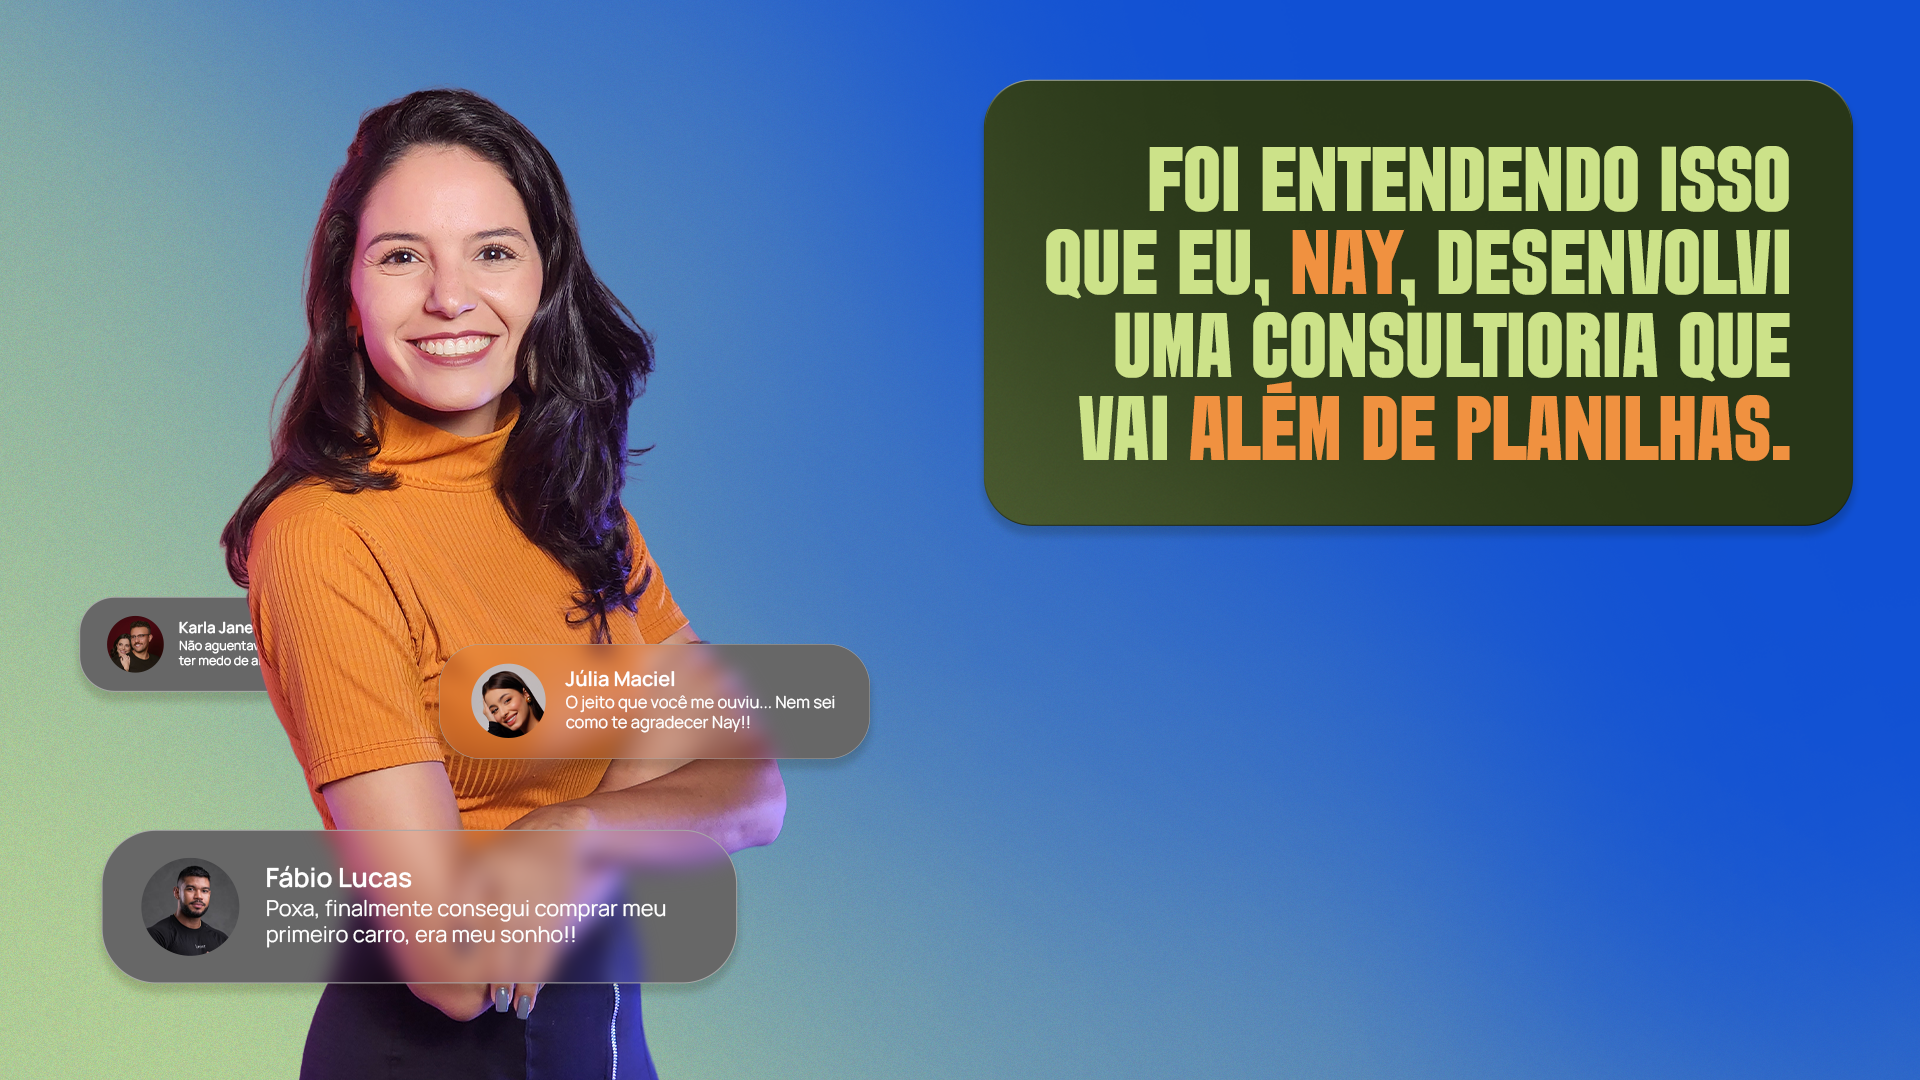
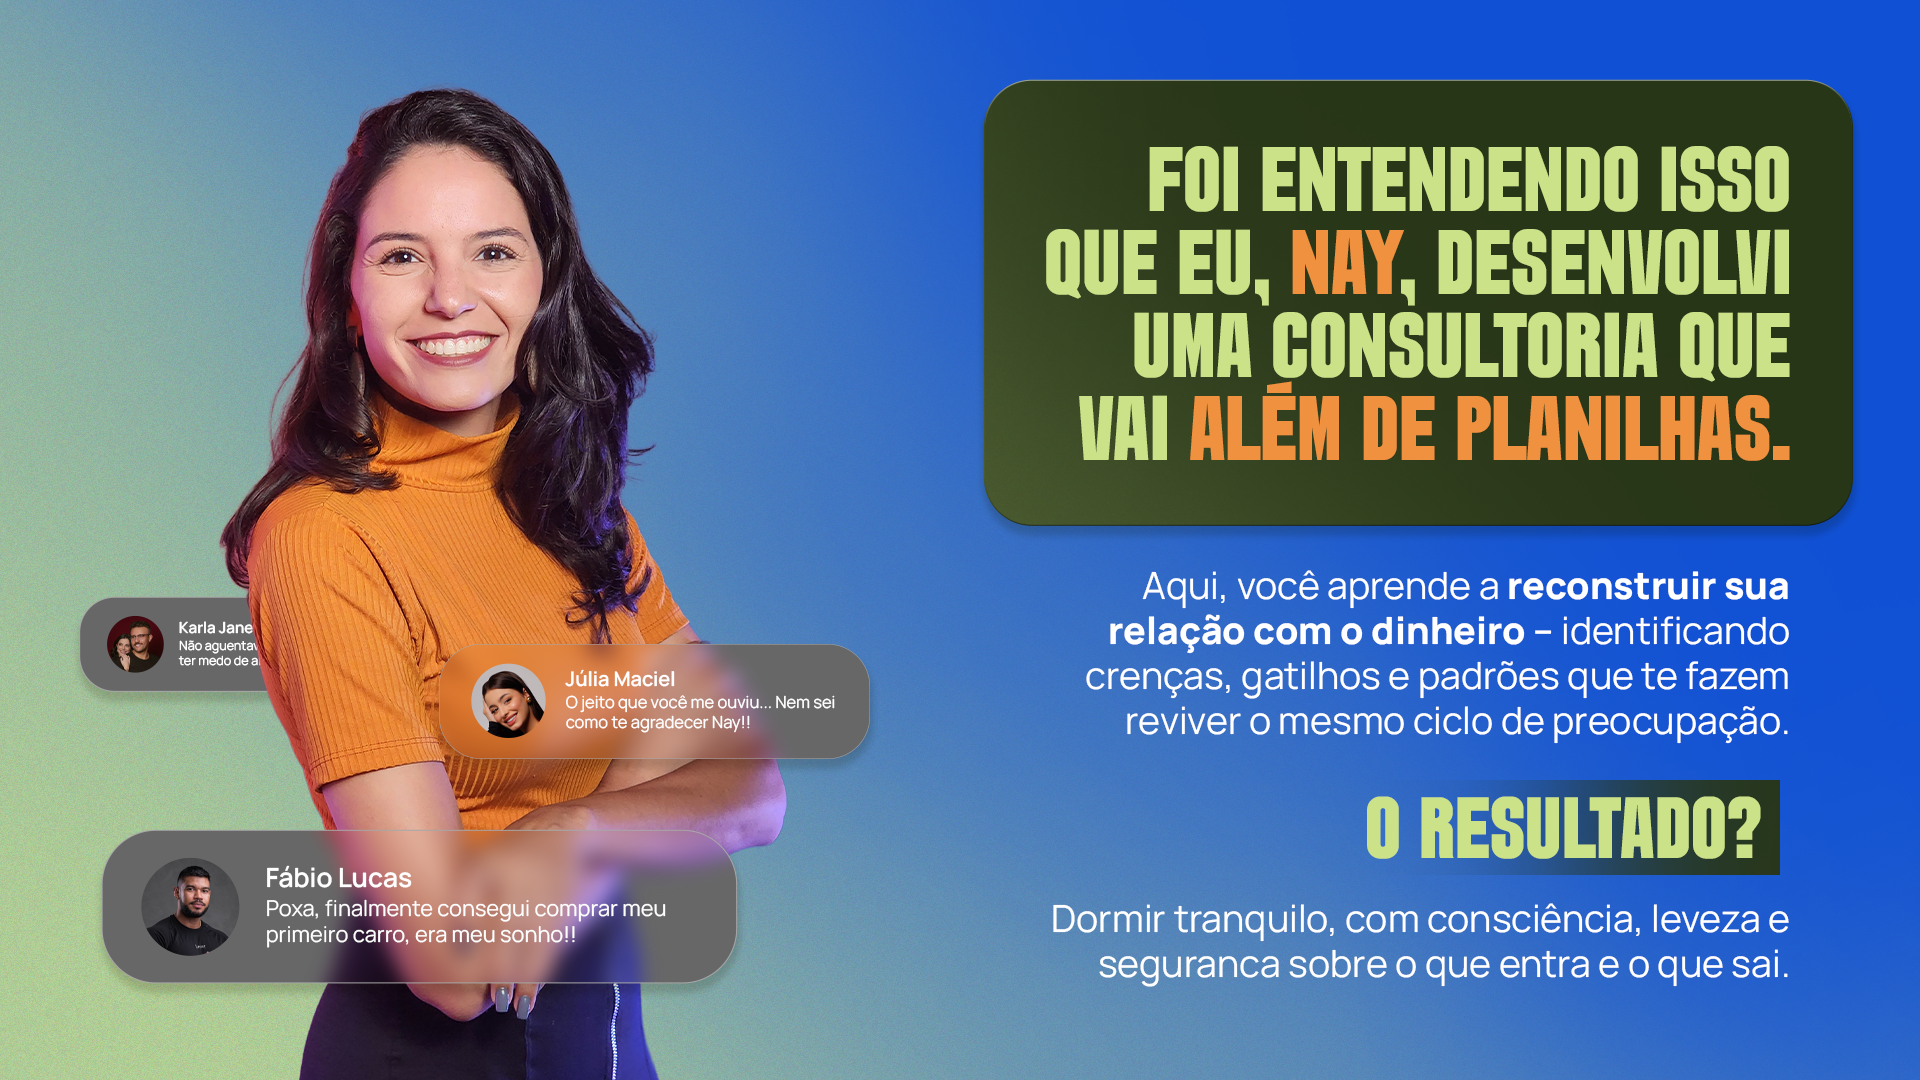
preview

Changed region(s): [[0.5312, 0.5194, 0.9375, 0.9167], [0.5625, 0.275, 0.8125, 0.3667]]

diff --git a/index.html b/index.html
@@ -1,34 +1,50 @@
 <!DOCTYPE html>
 <html lang="pt-BR">
 <head>
-    <meta charset="UTF-8">
-    <meta name="viewport" content="width=device-width, initial-scale=1.0">
-    <title>Título da Sua Landing Page Aqui</title>
-    
-    <meta name="description" content="Descreva sua landing page em até 160 caracteres.">
-    <meta name="keywords" content="palavra-chave1, palavra-chave2, palavra-chave3">
-    <meta name="author" content="Seu Nome ou Nome da Empresa">
-    <meta name="robots" content="index, follow">
+  <meta charset="UTF-8" />
+  <meta http-equiv="X-UA-Compatible" content="IE=edge" />
+  <meta name="viewport" content="width=device-width, initial-scale=1.0" />
 
-    <meta property="og:title" content="O Mesmo Título da Sua Landing Page">
-    <meta property="og:description" content="A Mesma Descrição da Sua Landing Page">
-    <meta property="og:image" content="https://seusite.com/assets/img/nome-da-imagem-social.jpg">
-    <meta property="og:url" content="https://seusite.com/">
-    <meta property="og:type" content="website">
+  <title>Consultoria Financeira Emocional com Nay | Viva em Paz com o Dinheiro</title>
 
-    <link rel="icon" href="assets/img/favicons/favicon.ico" type="image/x-icon">
-    <link rel="shortcut icon" href="assets/img/favicons/favicon.ico" type="image/x-icon">
-    <link rel="apple-touch-icon" sizes="180x180" href="assets/img/favicons/apple-touch-icon.png">
-    <link rel="icon" type="image/png" sizes="32x32" href="assets/img/favicons/favicon-32x32.png">
-    <link rel="icon" type="image/png" sizes="16x16" href="assets/img/favicons/favicon-16x16.png">
-    
-    <link rel="preconnect" href="https://fonts.googleapis.com">
-    <link rel="preconnect" href="https://fonts.gstatic.com" crossorigin>
-    <link href="https://fonts.googleapis.com/css2?family=Manrope:wght@600&display=swap" rel="stylesheet">
-    
-    <link rel="stylesheet" href="assets/style.css">
-    <script src="assets/script.js" defer></script>
+  <link rel="canonical" href="https://seudominio.com/" />
+  <meta name="description" content="Transforme sua relação com o dinheiro. Consultoria financeira individual com Nay — equilíbrio emocional e clareza para organizar suas finanças sem culpa." />
+  <meta name="keywords" content="consultoria financeira, educação financeira, terapia financeira, consultoria emocional, controle financeiro, organização financeira, finanças pessoais, Nay, Ipatinga, paz com o dinheiro" />
+  <meta name="author" content="Nay - Educadora Financeira" />
+  <meta name="robots" content="index, follow" />
+  <meta name="theme-color" content="#111111" />
+
+  <!-- Open Graph -->
+  <meta property="og:title" content="Consultoria Financeira Emocional com Nay | Viva em Paz com o Dinheiro" />
+  <meta property="og:description" content="Aprenda a organizar suas finanças com leveza e propósito. Consultoria financeira que une emoção e razão para curar sua relação com o dinheiro." />
+  <meta property="og:image" content="https://seudominio.com/assets/img/og-image-nay.jpg" />
+  <meta property="og:url" content="https://seudominio.com/" />
+  <meta property="og:type" content="website" />
+  <meta property="og:locale" content="pt_BR" />
+
+  <!-- Twitter -->
+  <meta name="twitter:card" content="summary_large_image" />
+  <meta name="twitter:title" content="Consultoria Financeira Emocional com Nay" />
+  <meta name="twitter:description" content="Durma tranquilo com suas finanças. Transforme sua relação com o dinheiro." />
+  <meta name="twitter:image" content="https://seudominio.com/assets/img/og-image-nay.jpg" />
+
+  <!-- Favicons -->
+  <link rel="icon" href="assets/img/favicons/favicon.ico" type="image/x-icon" />
+  <link rel="shortcut icon" href="assets/img/favicons/favicon.ico" type="image/x-icon" />
+  <link rel="apple-touch-icon" sizes="180x180" href="assets/img/favicons/apple-touch-icon.png" />
+  <link rel="icon" type="image/png" sizes="32x32" href="assets/img/favicons/favicon-32x32.png" />
+  <link rel="icon" type="image/png" sizes="16x16" href="assets/img/favicons/favicon-16x16.png" />
+
+  <!-- Fonts -->
+  <link rel="preconnect" href="https://fonts.googleapis.com" />
+  <link rel="preconnect" href="https://fonts.gstatic.com" crossorigin />
+  <link href="https://fonts.googleapis.com/css2?family=Manrope:wght@600&display=swap" rel="stylesheet" />
+
+  <!-- Styles & Scripts -->
+  <link rel="stylesheet" href="assets/style.css" />
+  <script src="assets/script.js" defer></script>
 </head>
+
 <body>
 
     <main>
@@ -36,7 +52,7 @@
             <div class="hero-content">
                 <h1>VOCÊ NÃO PRECISA <span>SABER MAIS</span> SOBRE DINHEIRO...</h1>
                 <h2 class="hero-subtitle">Você precisa se sentir em paz com ele.</h2>
-                <p class="hero-text">Chegou o momento de viver sem medo de abrir o aplicativo do banco, sem culpa por gastar e com a tranquilidade de saber que tudo está sob controle.</p>
+                <p class="hero-text">Chegou o momento de viver sem medo de abrir o aplicativo do banco, sem culpa por gastar e com a tranquilidade de saber que tudo está dentro do planejamento.</p>
                 <p class="hero-label">CONSULTORIA INDIVIDUAL PARA ORGANIZAR SUAS<br> FINANÇAS E CURAR SUA RELAÇÃO COM O DINHEIRO.</p>
                 <a href="#" class="btn-primary">QUERO VIVER EM PAZ</a>
         </div>
@@ -61,13 +77,13 @@
 
             </div>
              <div class="check-item">
-                <p>Sem gasto extra aparente</p>
+                <p>Controle financeiro rígido</p>
                 <img src="assets/img/CHECK.png" alt="Ícone de check">
 
             </div>
             </div>
 
-            <p class="final-text">Mas de alguma forma, o controle escapa das mãos.</p>
+            <p class="final-text">Mas de alguma forma, a conta não fecha.</p>
         </div>
     </section>
     <section class="consultoria-section">
